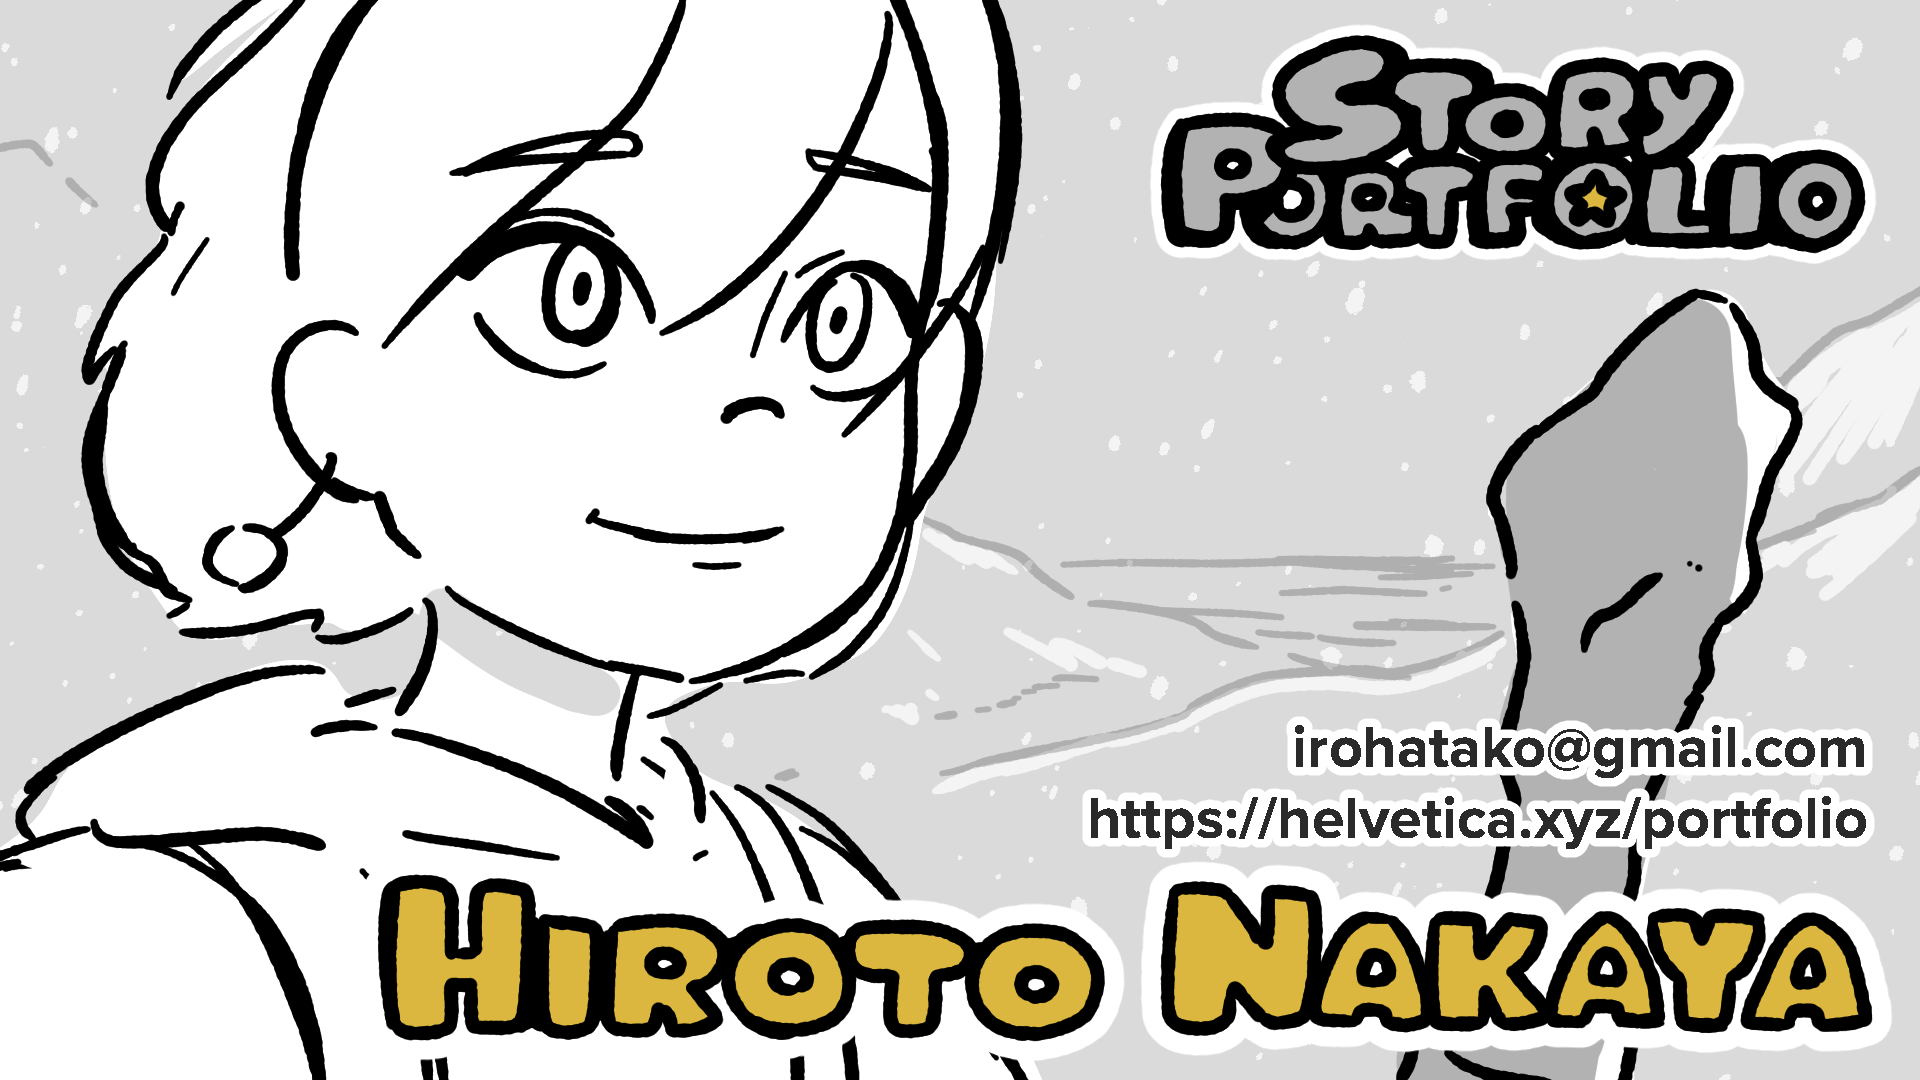
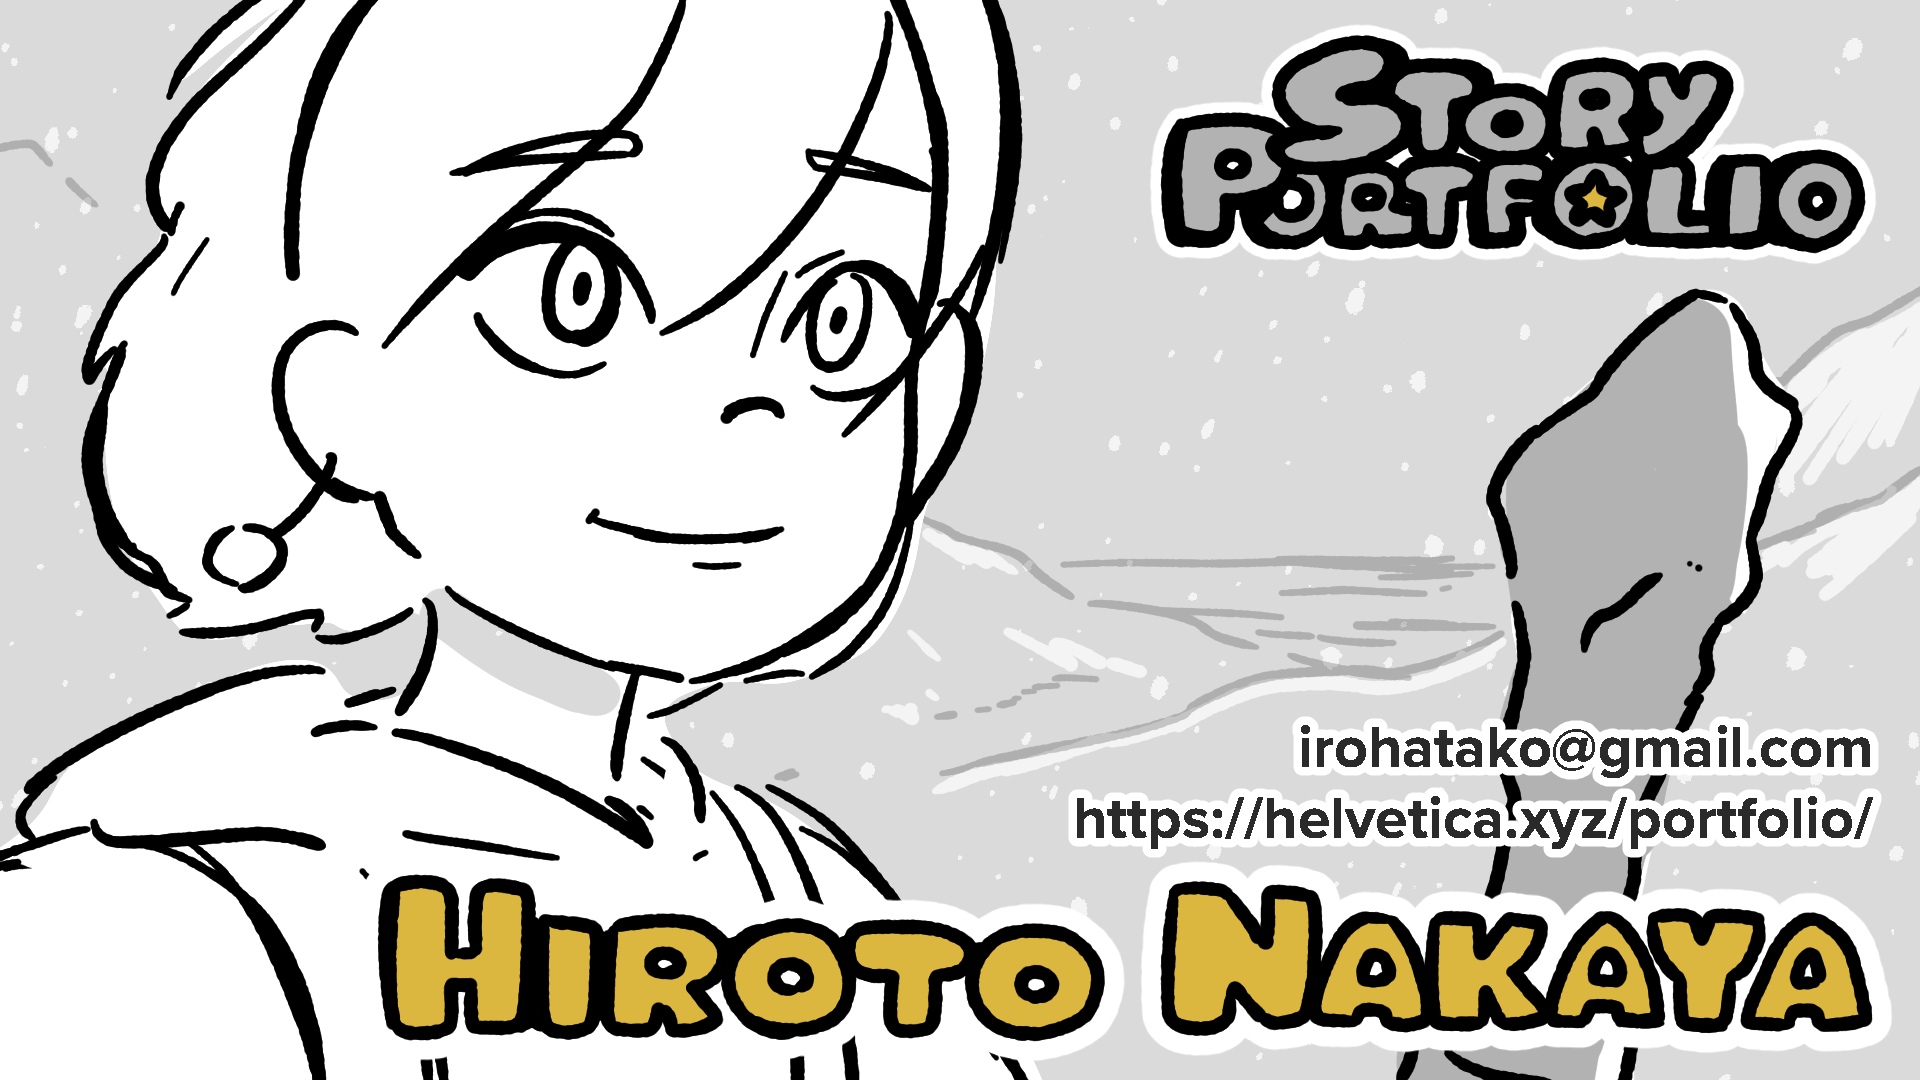
fix url

Changed region(s): [[0.5312, 0.6722, 1.0, 0.7944]]

diff --git a/index.html b/index.html
@@ -182,7 +182,7 @@
 		const captionArea = document.getElementById('captionArea');
 		const panels = [
 			{ image: './images/panels/1.png', caption: "[* Door closing sound]", url: '' },
-			{ image: './images/panels/2.png', caption: "I brought the <span class='bg-yellow-300 text-black'>storyboard</span> for you to check out.", url: 'https://helvetica.xyz/portfolio.html' },
+			{ image: './images/panels/2.png', caption: "I brought the <span class='bg-yellow-300 text-black'>storyboard</span> for you to check out.", url: 'https://helvetica.xyz/portfolio/' },
 			{ image: './images/panels/3.png', caption: "(O.S.) You know, I did major in <span class='bg-yellow-300 text-black'>design engineering</span>.", url: 'https://neuehelvetica.notion.site/HCI-PORTFOLIO-31bb8346bbe64283a73b6cef86d17933' },
 			{ image: './images/panels/4.png', caption: "Word on <span class='bg-yellow-300 text-black'>social media</span> is we'd make a pretty unbeatable team.", url: 'https://x.com/NeueHelvetica' },
 			{ image: './images/panels/5.png', caption: "Heh… not bad at all. I'll send you the job details via <span class='bg-yellow-300 text-black'>email</span>.", url: 'mailto:irohatako@gmail.com' },
